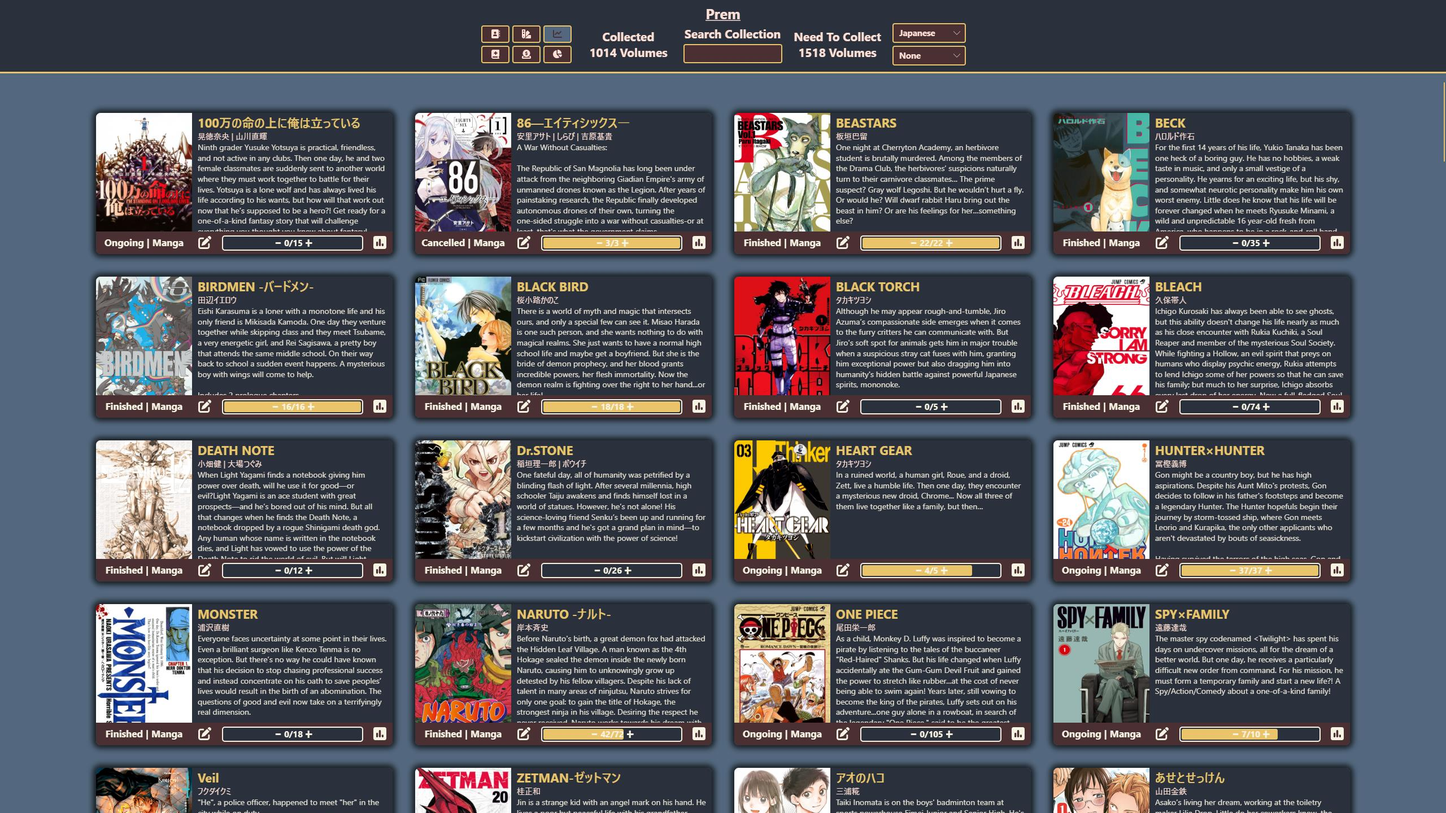
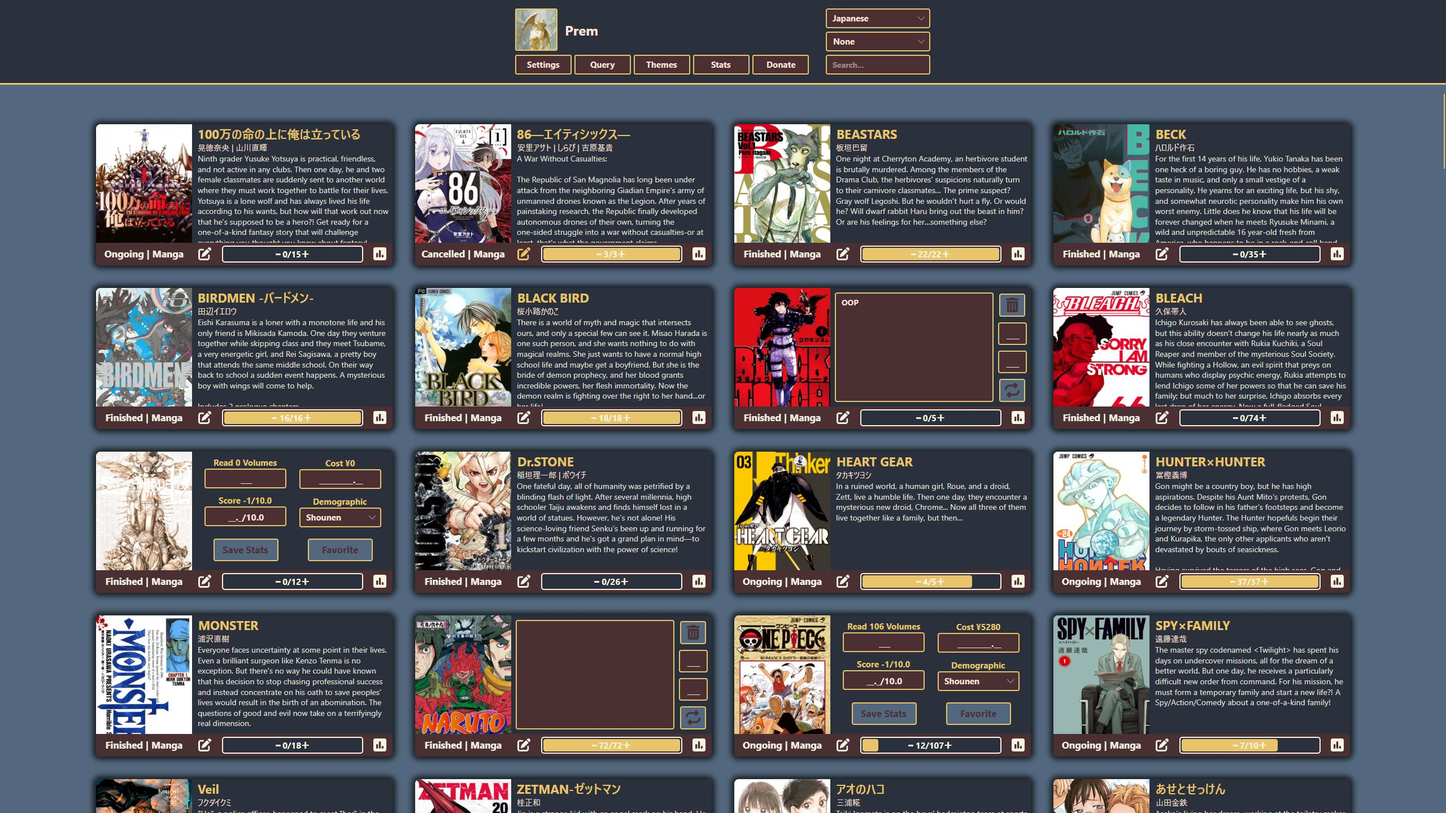
v1.7.0.0

diff --git a/Src/ViewModels/MainWindowViewModel.cs b/Src/ViewModels/MainWindowViewModel.cs
@@ -272,7 +272,6 @@ namespace Tsundoku.ViewModels
             fRead.Flush();
             fRead.Close();
 
-            CurrentTheme = MainUser.SavedThemes.Single(x => x.ThemeName == MainUser.MainTheme).Cloning();
             Constants.Logger.Info($"Loading {MainUser.UserName}'s Data");
             UserName = MainUser.UserName;
             Collection = MainUser.UserCollection;
@@ -281,7 +280,11 @@ namespace Tsundoku.ViewModels
             CurDisplay = MainUser.Display;
             CurCurrency = MainUser.Currency;
             LanguageIndex = Array.IndexOf(Constants.AvailableLanguages, CurLanguage);
-            UserIcon = new Bitmap(new MemoryStream(MainUser.UserIcon)).CreateScaledBitmap(new Avalonia.PixelSize(Constants.USER_ICON_WIDTH, Constants.USER_ICON_HEIGHT), BitmapInterpolationMode.HighQuality);
+            CurrentTheme = MainUser.SavedThemes.Single(x => x.ThemeName == MainUser.MainTheme).Cloning();
+            if (MainUser.UserIcon.Length > 0 && MainUser.UserIcon != null)
+            {
+                UserIcon = new Bitmap(new MemoryStream(MainUser.UserIcon)).CreateScaledBitmap(new Avalonia.PixelSize(Constants.USER_ICON_WIDTH, Constants.USER_ICON_HEIGHT), BitmapInterpolationMode.HighQuality);
+            }
 
             // Pre allocate the bitmaps for every image so it is not remade every pass.
             foreach (Series x in Collection)
@@ -403,13 +406,13 @@ namespace Tsundoku.ViewModels
                 updatedVersion = true;  
             }
 
-            // if (curVersion < 1.7)
-            // {
-            //     // userData.AsObject().Add("Icon", "");
-            //     // userData["CurDataVersion"] = 1.6;
-            //     updatedVersion = true;
-            //     Constants.Logger.Info("Updated Users Data to v1.7");
-            // }
+            if (curVersion < 1.7)
+            {
[1 lines of base64/hex data omitted]
+                userData["CurDataVersion"] = 1.7;
+                updatedVersion = true;
+                Constants.Logger.Info("Updated Users Data to v1.7");
+            }
 
             File.WriteAllText(filePath, JsonSerializer.Serialize(userData, options));
             return updatedVersion;

diff --git a/Src/Models/Constants.cs b/Src/Models/Constants.cs
@@ -6,8 +6,8 @@ namespace Tsundoku.Models
 {
     public class Constants
     {
-		public const ushort USER_ICON_HEIGHT = 68;
-		public const ushort USER_ICON_WIDTH = 68;
+		public const ushort USER_ICON_HEIGHT = 71;
+		public const ushort USER_ICON_WIDTH = 71;
         public const ushort CARD_HEIGHT = 290;
 		public const ushort CARD_WIDTH = 525;
         public const ushort RIGHT_SIDE_CARD_WIDTH = 355;

diff --git a/Src/Helpers/MangadexQuery.cs b/Src/Helpers/MangadexQuery.cs
@@ -1,6 +1,5 @@
 using System;
 using System.Collections.Generic;
-using System.IO;
 using System.Linq;
 using System.Net.Http;
 using System.Text.Json;

diff --git a/README.md b/README.md
@@ -5,7 +5,7 @@
 ## [ChangeLog](https://github.com/Sigrec/TsundokuApp/blob/main/ChangeLog.txt) (Right Click Exe → Properties → Details to see current File Version)
 ***
 >[**How To Follow a Dropbox Folder for Updates**](https://help.dropbox.com/organize/follow-folder)\
-[**Windows Download** (Current Supported Version = V1.6.4.0)](https://github.com/Sigrec/TsundokuApp/releases)\
+[**Windows Download** (Current Supported Version = V1.7.0.0)](https://github.com/Sigrec/TsundokuApp/releases)\
 [**Mac Download (Not Supported Yet Need Someone To Test For Me Add me on Discord if Interested & DM)** (Current Supported Version = X)](https://www.dropbox.com/sh/3e0po3d4l1sv8va/AAAgEbiPM86QQtkTcvvGWEVva?dl=0)\
 Download the folder into your desired location (need to keep the executable folder with your UserData.json and Covers folder otherwise it will generate new ones), then pin the exe to your taskbar. Make sure to keep the ExtraSeries.json file in the same folder as well otherwise it will crash if you try and add any series in it like "Radiant"
 ***
